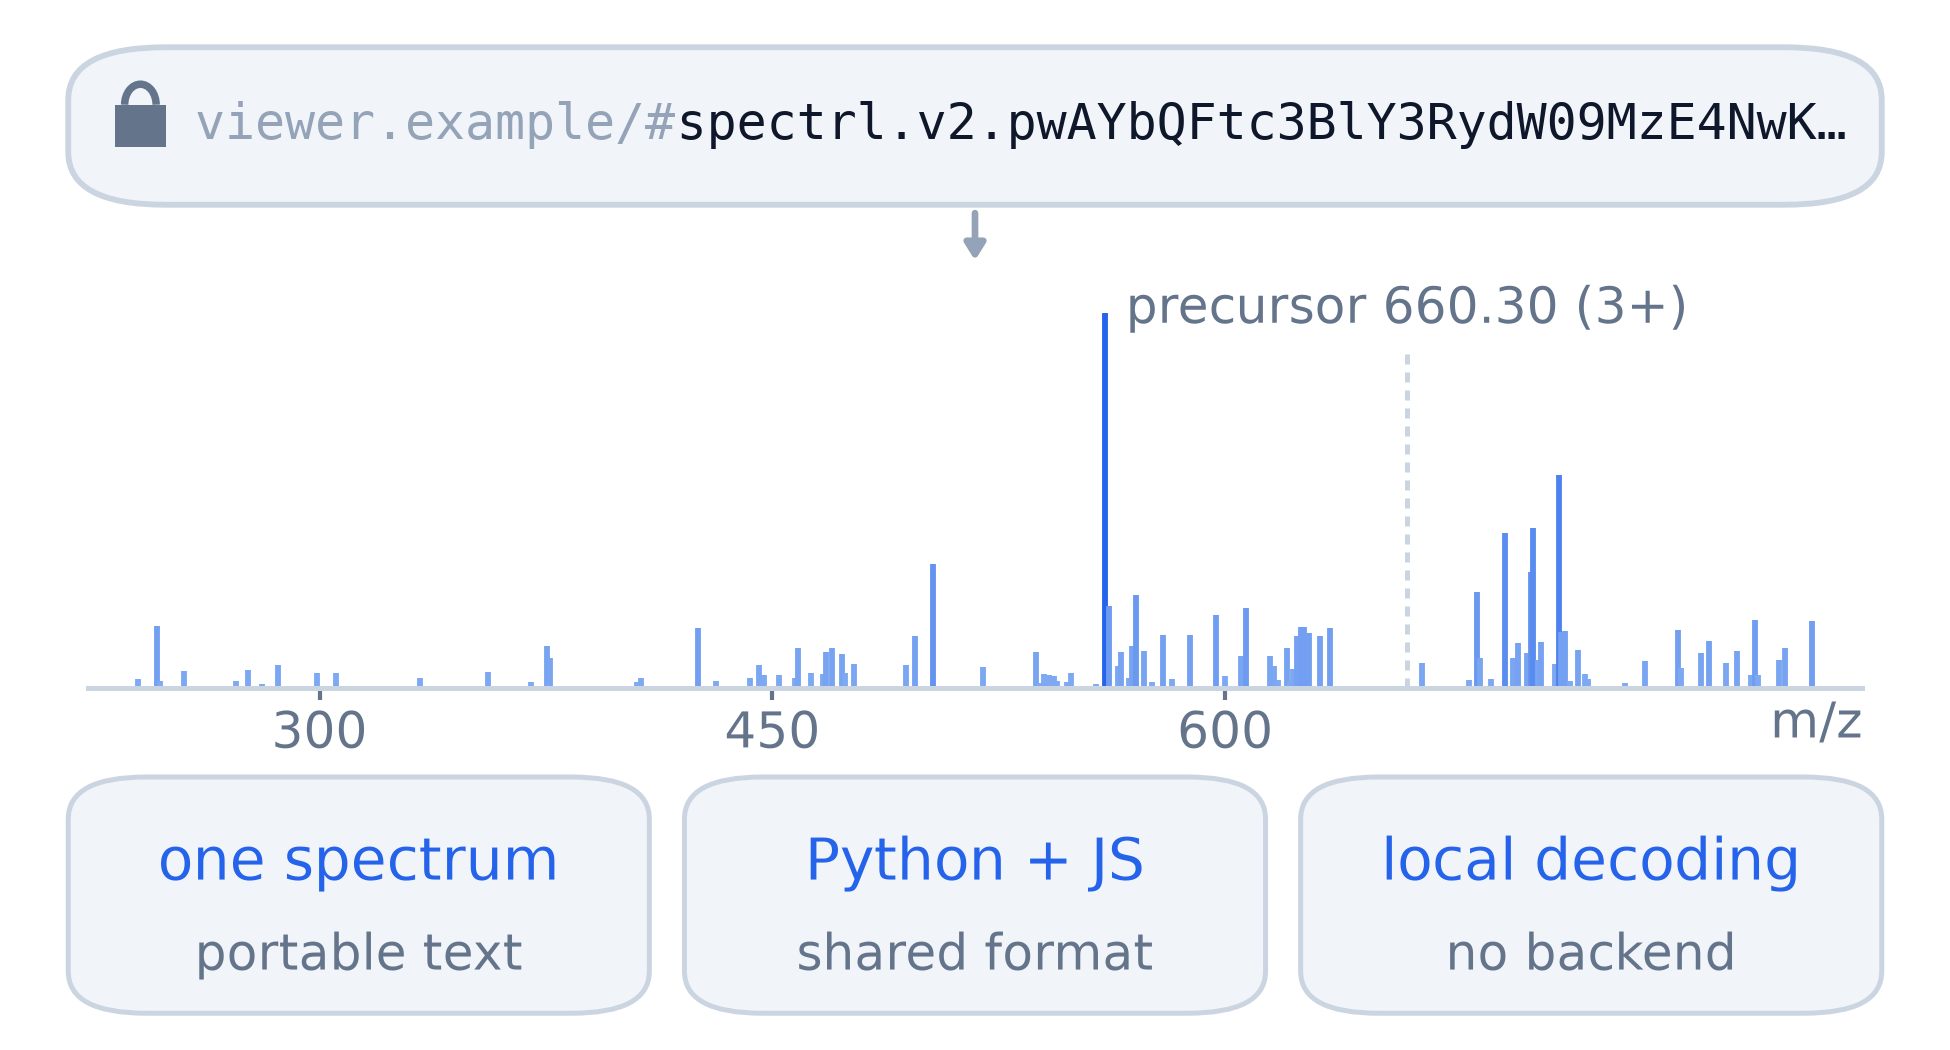
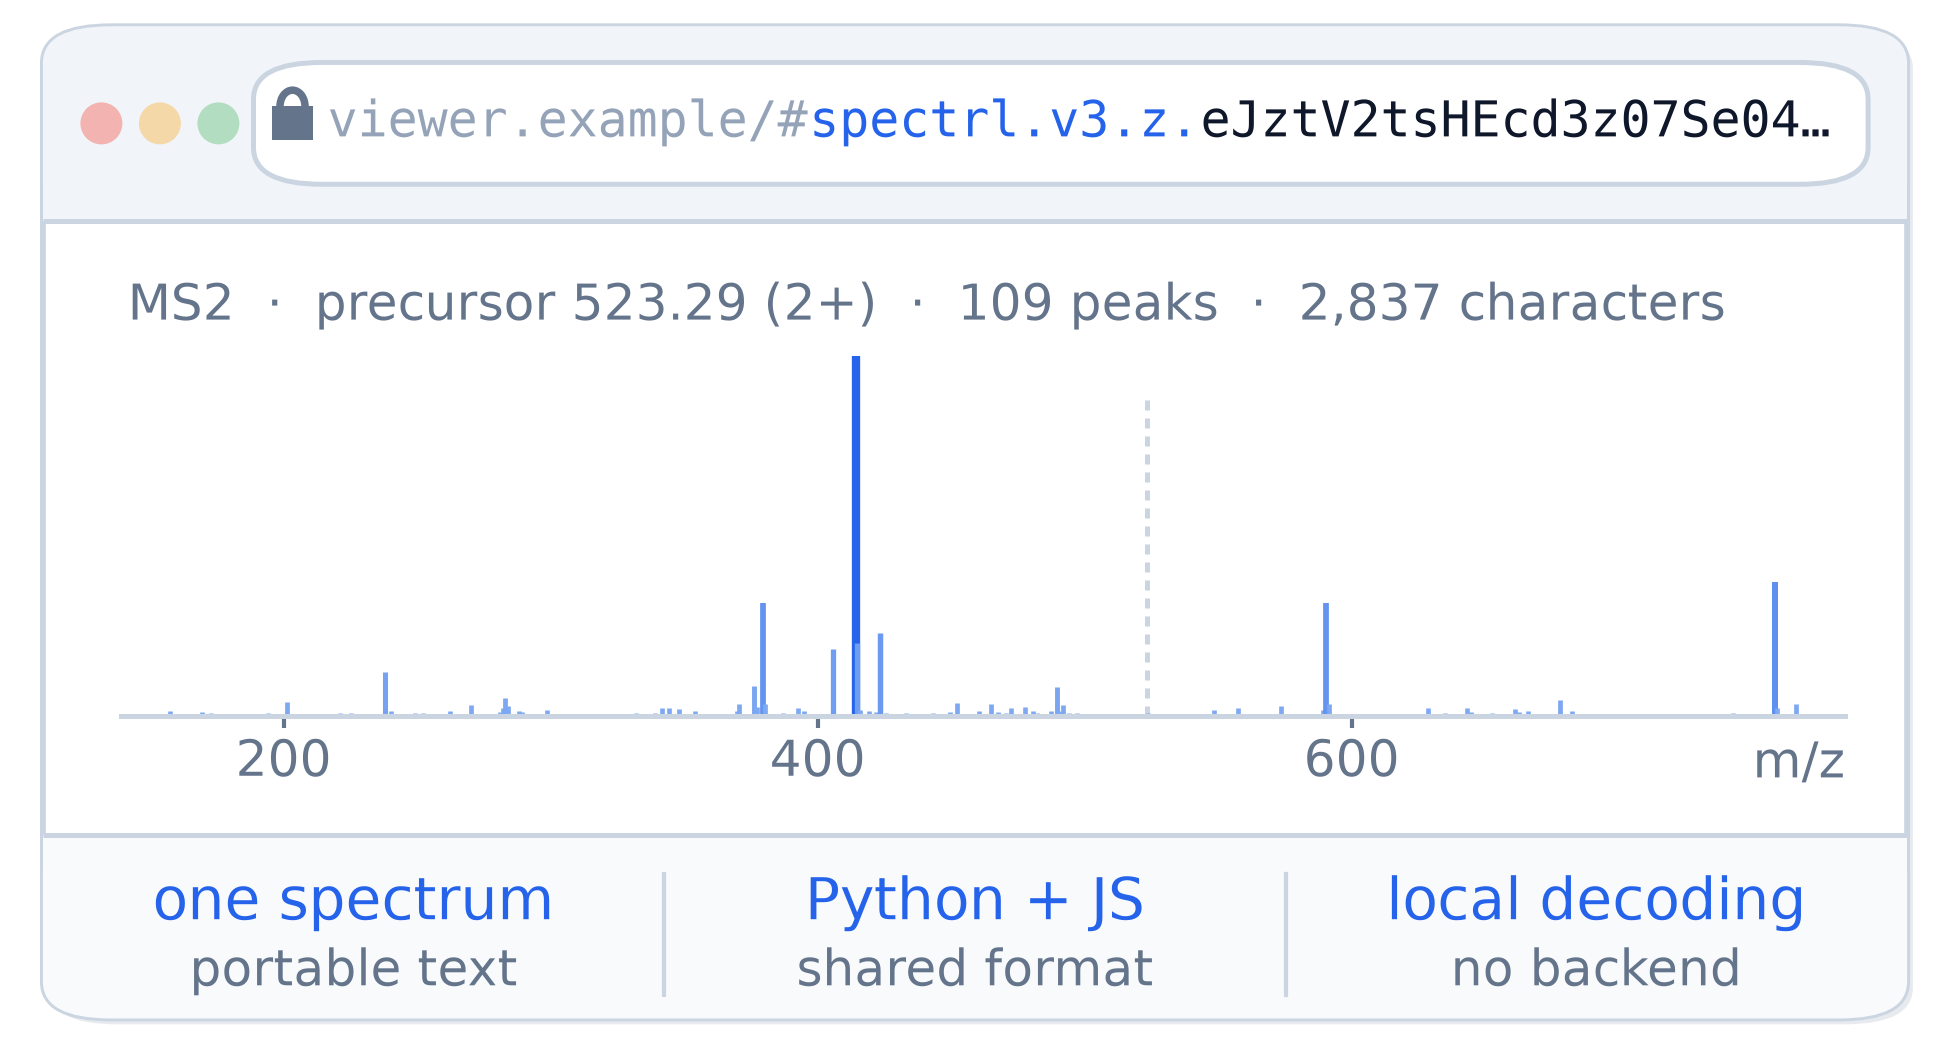
README: v3 overview graphic plus workflow, token-field and token-size figures

diff --git a/README.md b/README.md
@@ -19,7 +19,7 @@ spectrl.v3.<mode>.<base64url(payload)>.<checksum>
 [Read the format specification](https://github.com/tacular-omics/spectrl/blob/main/SPECIFICATION.md) ·
 [See the changelog](https://github.com/tacular-omics/spectrl/blob/main/CHANGELOG.md)
 
-[![A spectrl token embedded in a URL and decoded into a mass spectrum, with portable text, Python and JavaScript implementations, and local decoding.](https://raw.githubusercontent.com/tacular-omics/spectrl/main/docs/spectrl-overview.png)](https://tacular-omics.github.io/spectrl/)
+[![A spectrl token embedded in a URL and decoded into a mass spectrum, with portable text, a shared format across implementations, and local decoding.](https://raw.githubusercontent.com/tacular-omics/spectrl/main/docs/spectrl-overview.png)](https://tacular-omics.github.io/spectrl/)
 
 *A spectrum travels as ordinary URL-safe text and decodes entirely client-side.*
 
@@ -31,6 +31,8 @@ not depend on an external service or file. A Universal Spectrum Identifier
 (USI) points to a spectrum in a repository. Spectrl embeds the spectrum. Use a
 USI when long-term repository lookup is the goal, and spectrl when a compact,
 self-contained handoff is more useful.
+
+![A local spectrum is encoded into a spectrl token, placed after the # of a URL, and decoded in the browser. The token has three parts: identifier, encoded spectrum data, and checksum.](https://raw.githubusercontent.com/tacular-omics/spectrl/main/docs/spectrl-workflow.png)
 
 ## What's included
 
@@ -331,11 +333,22 @@ preservation, CLI commands, and the limits of each report.
 token = encode_spectrum(spec, lossless=True)
 ```
 
+### Token size
+
+Token length grows with the number of points in the spectrum. The plot shows
+the 237 benchmark spectra from the spectrl manuscript, in the default and
+bit-exact encodings, against a cautious query-string limit and Chromium's URL
+limit. Large profile spectra belong in the URL fragment, not a query string.
+
+![Token length in characters against points per spectrum on log axes, for MS1, MS2, and MS3 centroid and profile spectra, default and bit-exact.](https://raw.githubusercontent.com/tacular-omics/spectrl/main/docs/spectrl-token-size.png)
+
 ## Token format
 
 ```
 spectrl.v3.<mode>.<base64url(payload)>.<checksum>
 ```
+
+![The token text parts and the thirteen integer-keyed fields of the CBOR document: peak count, spectrum ID, CV parameters, scan list, precursors, products, peak arrays, free-text params, source, acquisition, processing, extensions, and ontology versions.](https://raw.githubusercontent.com/tacular-omics/spectrl/main/docs/spectrl-token-fields.png)
 
 - **`spectrl.v3`**: stable `spectrl` identifier + explicit `v3` format version. The prefix is the version's only carrier.
 - **Mode**: `z` is the default zlib-compressed CBOR. `r` is raw CBOR and `b` is Brotli. All use unpadded base64url. Readers require `r` and `z`, with an optional `b` capability.
